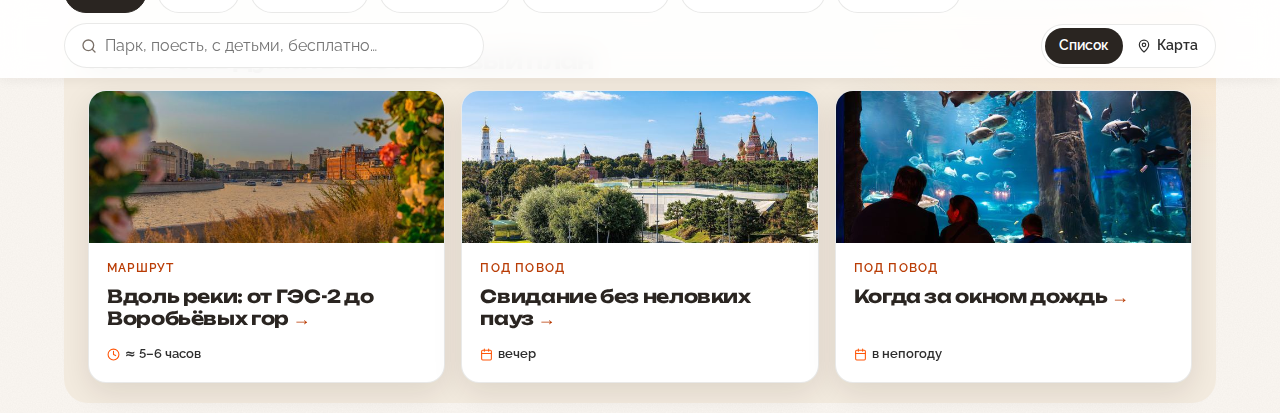
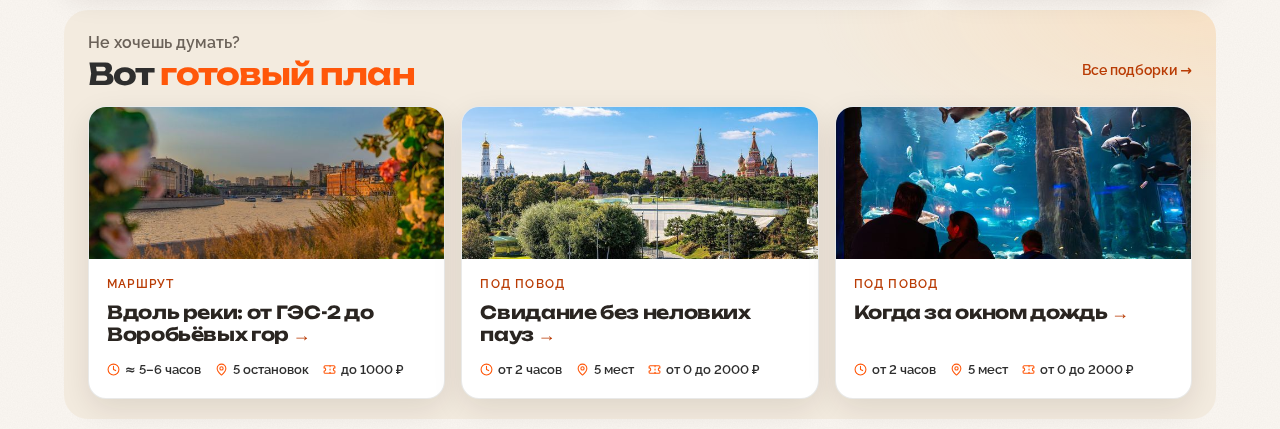
Шапка «Готовых планов» с акцентом, в карточках снова все параметры
Вопрос — тихой строкой над заголовком, «готовый план» — цветом бренда.

Claude-Session: https://claude.ai/code/session_01C5CphNpDVRWo972NeZpS75

diff --git a/scripts/components/collection-card.js b/scripts/components/collection-card.js
@@ -21,15 +21,6 @@ function metaChips(collection) {
   ].filter(Boolean).join('');
 }
 
-/** Компактная карточка (полоса на главной) — один главный факт: у маршрута
- *  время, у подборки «под повод» — когда идти. Остальное — на странице. */
-function keyFact(collection) {
-  const { duration, when } = collection.meta || {};
-  if (collection.type === 'route' && duration) return `<span>${icon('clock')} ${escapeHtml(duration)}</span>`;
-  if (when) return `<span>${icon('calendar')} ${escapeHtml(when)}</span>`;
-  return duration ? `<span>${icon('clock')} ${escapeHtml(duration)}</span>` : '';
-}
-
 /** Последнее слово названия — вместе со стрелкой, чтобы «→» не уезжала
  *  на отдельную строку (inline-block неразрывный пробел не держит). */
 function titleHtml(title = '') {
@@ -38,7 +29,7 @@ function titleHtml(title = '') {
   return `${escapeHtml(title.slice(0, i + 1))}<span class="collection-title__end">${escapeHtml(title.slice(i + 1))}&nbsp;${arrow}</span>`;
 }
 
-export function collectionCardHtml(collection, { compact = false } = {}) {
+export function collectionCardHtml(collection) {
   const type = COLLECTION_TYPES[collection.type] || '';
   return `
     <a class="collection-card" href="${collectionUrl(collection.slug)}" data-title="${escapeHtml(collection.title)}">
@@ -48,7 +39,7 @@ export function collectionCardHtml(collection, { compact = false } = {}) {
           <span class="collection-card__type">${escapeHtml(type)}</span>
           <span class="collection-title">${titleHtml(collection.title)}</span>
           <span class="collection-desc">${escapeHtml(collection.teaser || collection.lead || '')}</span>
-          <span class="collection-card__meta">${compact ? keyFact(collection) : metaChips(collection)}</span>
+          <span class="collection-card__meta">${metaChips(collection)}</span>
         </span>
       </span>
     </a>`;

diff --git a/styles/pages/home.css b/styles/pages/home.css
@@ -1227,6 +1227,19 @@ body.feed-toolbar-stuck .main-header { box-shadow: none; }
 /* В полосе ленты карточка подборки — без тизера: название, тип и пара
    фактов, остальное — на странице подборки */
 .feed-stream .collection-desc { display: none; }
+/* Шапка «Готовых планов»: вопрос — тихой строкой над заголовком,
+   акцент — «готовый план» цветом бренда и крупнее обычного заголовка */
+#collections .plans-title { font-size: 1.875rem; line-height: 1.1; }
+#collections .plans-title em { font-style: normal; color: var(--primary); }
+.plans-title__q {
+  display: block;
+  margin-bottom: 6px;
+  font-family: var(--font-body);
+  font-size: var(--fs-md);
+  font-weight: 600;
+  letter-spacing: 0;
+  color: var(--text-light);
+}
 .feed-stream .section-lead { max-width: 640px; }
 .feed-stream .collections-grid { margin-top: 0; }
 
@@ -1301,6 +1314,7 @@ body.feed-toolbar-stuck .main-header { box-shadow: none; }
   .feed-stream .section-head { margin-bottom: 12px; }
   .feed-stream .section-head--row { flex-direction: column; align-items: flex-start; gap: 6px; }
   .feed-stream .section-title { font-size: var(--fs-lg); }
+  #collections .plans-title { font-size: 1.625rem; }
   .feed-stream .section-lead {
     display: -webkit-box;
     -webkit-line-clamp: 2;

diff --git a/scripts/pages/home.js b/scripts/pages/home.js
@@ -124,7 +124,7 @@ async function renderCollections() {
     // Свежие — в полосе «Готовые планы», те, что постарше, — в напоминаниях ленты
     const collections = [...await loadCollections()]
       .sort((a, b) => String(b.published || '').localeCompare(String(a.published || '')));
-    grid.innerHTML = collections.slice(0, PLANS_IN_BAND).map((c) => collectionCardHtml(c, { compact: true })).join('');
+    grid.innerHTML = collections.slice(0, PLANS_IN_BAND).map(collectionCardHtml).join('');
     return collections;
   } catch (err) {
     console.error('[home] подборки:', err);

diff --git a/index.html b/index.html
@@ -123,7 +123,7 @@
       <div class="container">
         <div class="section-head section-head--row">
           <div>
-            <h2 class="section-title">Не хочешь думать? Вот готовый план</h2>
+            <h2 class="section-title plans-title"><span class="plans-title__q">Не хочешь думать?</span> Вот <em>готовый план</em></h2>
           </div>
           <a class="section-link" href="collections/">Все подборки →</a>
         </div>
